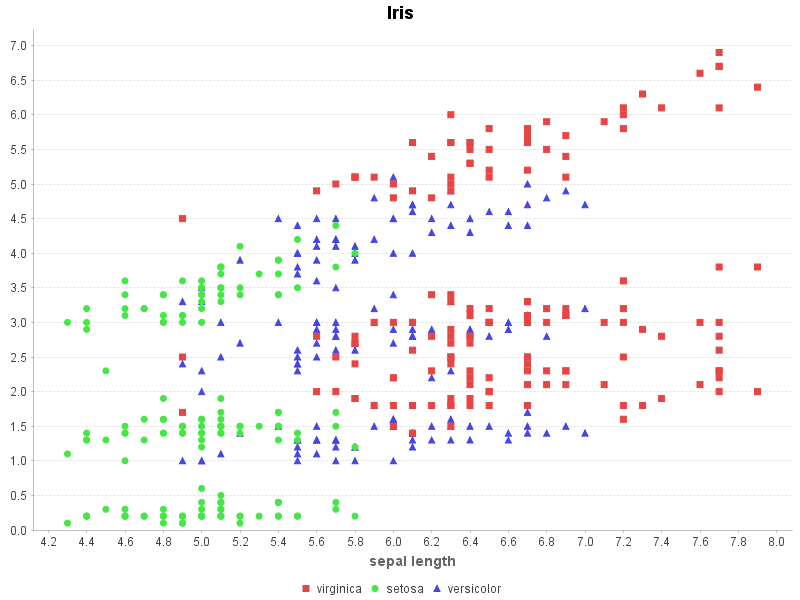
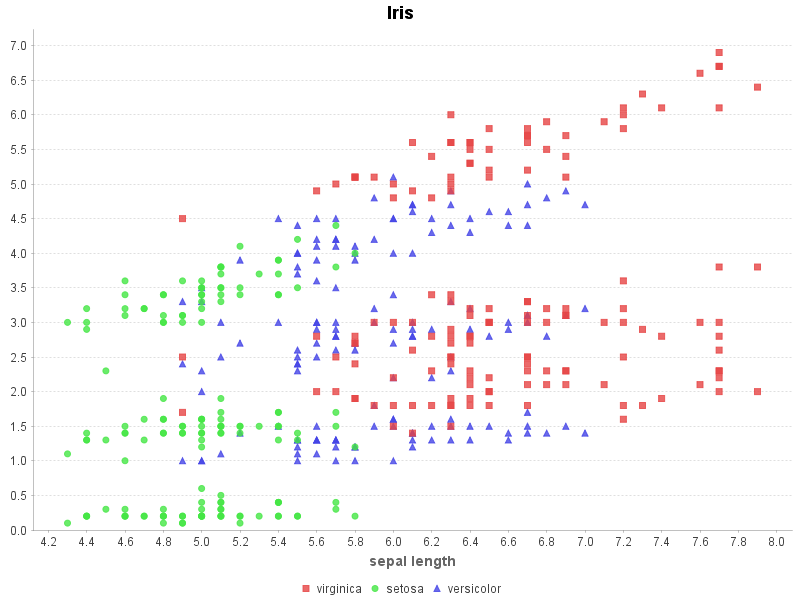
add color themes (light, dark) and transparent colors

diff --git a/ch.obermuhlner.csv2chart/src/main/java/ch/obermuhlner/csv2chart/Application.java b/ch.obermuhlner.csv2chart/src/main/java/ch/obermuhlner/csv2chart/Application.java
@@ -52,6 +52,7 @@ import ch.obermuhlner.csv2chart.model.csv.CsvDataModelLoader;
 public class Application {
 
 	private static Color gray = Color.decode("#666666");
+    private static Color midGray = Color.decode("#888888");
 	private static Color lightGray = Color.decode("#C0C0C0");
 
 	private static final ArgumentHandler<Parameters> argumentHandler = new ArgumentHandler<>();
@@ -219,8 +220,6 @@ public class Application {
 	private static void modifyTheme(JFreeChart chart, DataModel dataModel, Parameters parameters) {
 		String fontName = "Helvetica";
 		
-		StandardChartTheme theme = (StandardChartTheme) org.jfree.chart.StandardChartTheme.createJFreeTheme();
-
 		chart.setTextAntiAlias(true);
 		chart.setAntiAlias(true);
 
@@ -232,18 +231,14 @@ public class Application {
 				DefaultDrawingSupplier.DEFAULT_OUTLINE_STROKE_SEQUENCE,
 				DefaultDrawingSupplier.DEFAULT_SHAPE_SEQUENCE);
 
-		//theme.setTitlePaint(Color.decode("#4572a7"));
+        StandardChartTheme theme = createTheme(parameters);
+
 		theme.setDrawingSupplier(drawingSupplier);
 		theme.setExtraLargeFont(new Font(fontName, Font.BOLD, 18)); // title
 		theme.setLargeFont(new Font(fontName, Font.BOLD, 14)); // axis-title
 		theme.setRegularFont(new Font(fontName, Font.PLAIN, 12));
-		theme.setRangeGridlinePaint(lightGray);
-		theme.setPlotBackgroundPaint(Color.white);
-		theme.setChartBackgroundPaint(Color.white);
-		theme.setGridBandPaint(Color.red);
 		theme.setAxisOffset(new RectangleInsets(0, 0, 0, 0));
 		theme.setBarPainter(new StandardBarPainter());
-		theme.setAxisLabelPaint(gray);
 		theme.apply(chart);
 
 		Plot plot = chart.getPlot();
@@ -253,9 +248,17 @@ public class Application {
 			categoryPlot.getRangeAxis().setAxisLineVisible(false);
 			categoryPlot.getRangeAxis().setTickMarksVisible(false);
 			categoryPlot.setRangeGridlineStroke(new BasicStroke());
-			categoryPlot.getRangeAxis().setTickLabelPaint(gray);
-			categoryPlot.getDomainAxis().setTickLabelPaint(gray);
-			
+			switch(parameters.colorTheme) {
+                case LIGHT:
+                    categoryPlot.getRangeAxis().setTickLabelPaint(gray);
+                    categoryPlot.getDomainAxis().setTickLabelPaint(gray);
+                    break;
+                case DARK:
+                    categoryPlot.getRangeAxis().setTickLabelPaint(lightGray);
+                    categoryPlot.getDomainAxis().setTickLabelPaint(lightGray);
+                    break;
+            }
+
 			for (int i = 0; i < categoryPlot.getCategories().size(); i++) {
 				categoryPlot.getRenderer().setSeriesStroke(i, new BasicStroke(3.0f));
 			}
@@ -263,11 +266,7 @@ public class Application {
 			CategoryItemRenderer renderer = categoryPlot.getRenderer();
 			if (renderer instanceof BarRenderer) {
 				BarRenderer barRenderer = (BarRenderer) categoryPlot.getRenderer();
-				barRenderer.setShadowVisible(true);
-				barRenderer.setShadowXOffset(2);
-				barRenderer.setShadowYOffset(0);
-				barRenderer.setShadowPaint(lightGray);
-				barRenderer.setMaximumBarWidth(0.1);
+				barRenderer.setShadowVisible(false);
 			}
 		} else if (plot instanceof XYPlot) {
 			XYPlot xyPlot = (XYPlot) plot;
@@ -300,15 +299,22 @@ public class Application {
 						});
 					}
 					renderer.setSeriesItemLabelsVisible(seriesIndex, true);
-					renderer.setSeriesItemLabelPaint(seriesIndex, gray);
+                    switch (parameters.colorTheme) {
+                        case LIGHT:
+                            renderer.setSeriesItemLabelPaint(seriesIndex, midGray);
+                            break;
+                        case DARK:
+                            renderer.setSeriesItemLabelPaint(seriesIndex, midGray);
+                            break;
+                    }
 				}
 			}
 		} else if (plot instanceof PiePlot) {
 			PiePlot piePlot = (PiePlot) plot;
-			setPiePlotStyle(piePlot);
+			setPiePlotStyle(piePlot, parameters.colorTheme);
 		} else if (plot instanceof MultiplePiePlot) {
 			MultiplePiePlot multiplePiePlot = (MultiplePiePlot) plot;
-			setPiePlotStyle((PiePlot) multiplePiePlot.getPieChart().getPlot());
+			setPiePlotStyle((PiePlot) multiplePiePlot.getPieChart().getPlot(), parameters.colorTheme);
 		}
 	
 		LegendTitle legend = chart.getLegend();
@@ -317,7 +323,33 @@ public class Application {
 		}
 	}
 
-	private static Paint[] createColors(Parameters parameters) {
+    private static StandardChartTheme createTheme(Parameters parameters) {
+        StandardChartTheme theme;
+
+        switch (parameters.colorTheme) {
+            case LIGHT:
+                theme = (StandardChartTheme) org.jfree.chart.StandardChartTheme.createJFreeTheme();
+                theme.setRangeGridlinePaint(lightGray);
+                theme.setPlotBackgroundPaint(Color.white);
+                theme.setChartBackgroundPaint(Color.white);
+                theme.setGridBandPaint(Color.red);
+                theme.setAxisLabelPaint(gray);
+                break;
+            case DARK:
+                theme = (StandardChartTheme) org.jfree.chart.StandardChartTheme.createDarknessTheme();
+                theme.setRangeGridlinePaint(Color.darkGray);
+                theme.setGridBandPaint(Color.red);
+                theme.setAxisLabelPaint(gray);
+                theme.setItemLabelPaint(lightGray);
+                break;
+            default:
+                throw new IllegalArgumentException("Unknown: " + parameters.colorTheme);
+        }
+
+        return theme;
+    }
+
+    private static Paint[] createColors(Parameters parameters) {
 		switch (parameters.dataColors) {
 			case WHEEL:
 				return createWheelColors(parameters);
@@ -367,7 +399,7 @@ public class Application {
 		return paints;
 	}
 
-	private static void setPiePlotStyle(PiePlot piePlot) {
+	private static void setPiePlotStyle(PiePlot piePlot, ColorTheme colorTheme) {
 		piePlot.setOutlineVisible(false);
 		piePlot.setShadowPaint(null);
 		
@@ -375,7 +407,16 @@ public class Application {
 		piePlot.setLabelShadowPaint(null);
 		piePlot.setLabelOutlinePaint(null);
 		piePlot.setLabelLinkStyle(PieLabelLinkStyle.STANDARD);
-		piePlot.setLabelLinkPaint(gray);
+
+		switch(colorTheme) {
+            case LIGHT:
+                piePlot.setLabelPaint(Color.black);
+                break;
+            case DARK:
+                piePlot.setLabelPaint(lightGray);
+                break;
+        }
+        piePlot.setLabelLinkPaint(gray);
 	}
 
 	private static String baseFilename(String filename) {

diff --git a/ch.obermuhlner.csv2chart/src/main/java/ch/obermuhlner/csv2chart/Parameters.java b/ch.obermuhlner.csv2chart/src/main/java/ch/obermuhlner/csv2chart/Parameters.java
@@ -122,6 +122,16 @@ public class Parameters implements Cloneable {
 	public Boolean legend;
 
 	@Parameter(
+			name = "color-theme",
+			description = ""
+					+ "Color theme.\n"
+					+ "Supported schemes: light, dark\n"
+					+ "Default: light",
+			optionName = "color-theme",
+			optionArgumentDescription = "theme")
+	public ColorTheme colorTheme = ColorTheme.LIGHT;
+
+	@Parameter(
 			name = "data-colors",
 			description = ""
 					+ "Color scheme to render data.\n"
@@ -235,6 +245,10 @@ public class Parameters implements Cloneable {
 				value = Double.parseDouble(String.valueOf(value));
 			} else if (fieldType == ImageFormat.class) {
 				value = ImageFormat.valueOf(String.valueOf(value).toUpperCase());
+			} else if (fieldType == ColorTheme.class) {
+				value = ColorTheme.valueOf(String.valueOf(value).toUpperCase());
+			} else if (fieldType == DataColors.class) {
+				value = DataColors.valueOf(String.valueOf(value).toUpperCase());
 			} else if (fieldType == Locale.class) {
 				value = Locale.forLanguageTag(String.valueOf(value));
 			}

diff --git a/ch.obermuhlner.csv2chart/src/main/java/ch/obermuhlner/csv2chart/ColorTheme.java b/ch.obermuhlner.csv2chart/src/main/java/ch/obermuhlner/csv2chart/ColorTheme.java
@@ -1,0 +1,6 @@
+package ch.obermuhlner.csv2chart;
+
+public enum ColorTheme {
+    LIGHT,
+    DARK
+}
